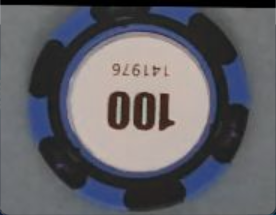
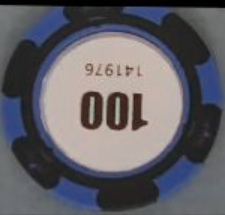
init

diff --git a/chip_ocr_text.py b/chip_ocr_text.py
@@ -13,7 +13,7 @@ def dbg(name, img, wait=0):
 # =========================
 # 统一宽度
 # =========================
-def resize_to_width(img, target_w=640):
+def resize_to_width(img, target_w):
     h, w = img.shape[:2]
     scale = target_w / w
     new_h = int(h * scale)
@@ -44,14 +44,17 @@ def find_text_blocks(bin_img, box_max_size):
     candidates = []
     for c in contours:
         x, y, w, h = cv2.boundingRect(c)
-        if 10 <= w <= box_max_size and 10 <= h <= box_max_size:
+        min_size = box_max_size * 0.2
+        if(w <= box_max_size * 0.6 and h <= box_max_size * 0.6):
+            continue
+        if min_size <= w <= box_max_size and min_size <= h <= box_max_size:
             candidates.append((x, y, w, h))
     return candidates
 
 # =========================
 # RANSAC 找连续直线点（纯 numpy）
 # =========================
-def ransac_linear_cluster_numpy(img, centers, min_count=5, line_tol_px=5, max_trials=500):
+def ransac_linear_cluster_numpy(img, centers, box_max_size, min_count, line_tol_px, max_trials):
     centers = np.array(centers, dtype=np.float32)
     n = len(centers)
     if n < min_count:
@@ -83,7 +86,7 @@ def ransac_linear_cluster_numpy(img, centers, min_count=5, line_tol_px=5, max_tr
     if len(best_group) < min_count:
         return None
 
-    group_filtered = filter_points_by_distance(best_group)
+    group_filtered = find_compact_x_cluster(best_group, box_max_size * 2.5)
 
     # debug 可视化
     dbg_img = img.copy()
@@ -100,18 +103,45 @@ def ransac_linear_cluster_numpy(img, centers, min_count=5, line_tol_px=5, max_tr
 # =========================
 # 筛选相邻点距离
 # =========================
-def filter_points_by_distance(points, min_dist=45, max_dist=135):
-    if len(points) < 2:
-        return points
-    filtered = [points[0]]
-    for pt in points[1:]:
-        last = filtered[-1]
-        dist = np.linalg.norm(pt - last)
-        if min_dist <= dist <= max_dist:
-            filtered.append(pt)
-        elif dist > max_dist:
-            break
-    return np.array(filtered)
+def find_compact_x_cluster(points, max_gap, min_count=2):
+    """
+    points: Nx2 (只用 x)
+    max_gap: 允许的最大相邻 x 距离
+    min_count: 至少多少个点才算有效
+    """
+    if len(points) < min_count:
+        return None
+
+    pts = np.array(points, dtype=np.float32)
+
+    # 1⃣ 按 x 排序
+    order = np.argsort(pts[:, 0])
+    pts = pts[order]
+
+    best_cluster = []
+    curr_cluster = [pts[0]]
+
+    for i in range(1, len(pts)):
+        dx = pts[i][0] - pts[i - 1][0]
+
+        if dx <= max_gap:
+            curr_cluster.append(pts[i])
+        else:
+            # 断开，比较
+            if len(curr_cluster) > len(best_cluster):
+                best_cluster = curr_cluster.copy()
+            curr_cluster = [pts[i]]
+
+    # 最后一段
+    if len(curr_cluster) > len(best_cluster):
+        best_cluster = curr_cluster.copy()
+
+    if len(best_cluster) < min_count:
+        return None
+
+    return np.array(best_cluster)
+
+
 
 # =========================
 # 旋转裁切 ROI
@@ -180,7 +210,7 @@ def detect_and_crop(img, box_max_size=40):
     dbg("blocks", dbg_img)
 
     centers = [(x+w/2, y+h/2) for x,y,w,h in blocks]
-    group = ransac_linear_cluster_numpy(img, centers)
+    group = ransac_linear_cluster_numpy(img, centers, box_max_size, min_count=5, line_tol_px=4, max_trials=500)
     if group is None:
         raise RuntimeError("未检测到连续字符集合")
     roi, angle = rotate_and_crop_roi(img, group, box_max_size)

diff --git a/chip_ocr_crnn.py b/chip_ocr_crnn.py
@@ -1,0 +1,25 @@
+import cv2
+
+# 加载 ONNX 模型
+net = cv2.dnn.readNet("text_recognition_CRNN_EN_2023feb_fp16.onnx")
+
+# 预处理
+img = cv2.imread("easy_ocr3.png", cv2.IMREAD_GRAYSCALE)
+img = cv2.resize(img, (100, 32))      # 高 32 为常见 CRNN 输入
+blob = cv2.dnn.blobFromImage(img, 1/255.0, (100,32), (0,0,0), swapRB=False)
+
+net.setInput(blob)
+pred = net.forward()                  # [seq_len, batch=1, classes]
+
+# 简单 greedy 解码 → 得到字符序列
+chars = "0123456789"
+pred = pred.squeeze(1)                # 去 batch
+text = ""
+last = -1
+for t in pred:
+    idx = t.argmax()
+    if idx!=last and idx < len(chars):
+        text += chars[idx]
+    last = idx
+
+print("识别结果:", text)
